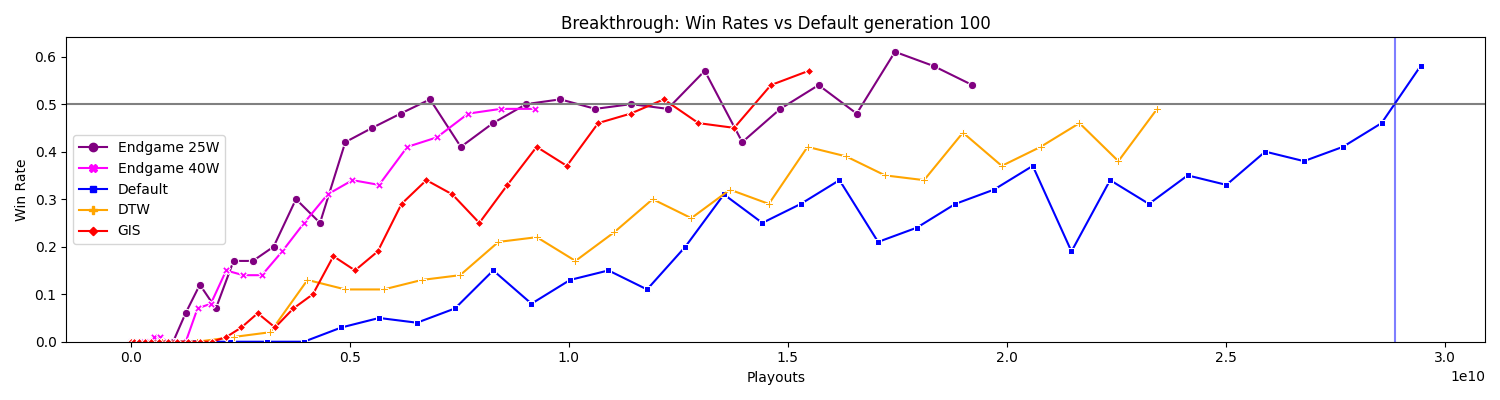
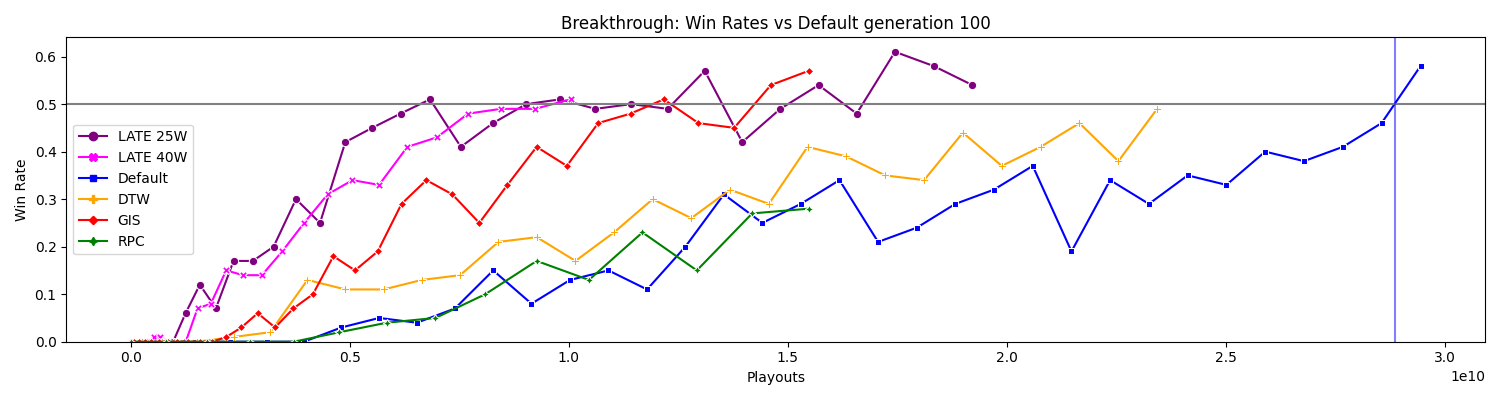
competitions and add LATE to graph together

diff --git a/py_src/graph_competitions_together.py b/py_src/graph_competitions_together.py
@@ -44,23 +44,20 @@ VS = 'Default generation 100'
 
 
 runs_dirnames = {
-    "Endgame 25W": "DEFAULT_5000_gamesvsENDGAME_PLAYOUTS_uniat100_few_games_const_100" ,
-    "Endgame 40W": "DEFAULT_5000_gamesvsENDGAME_low_pow_const_100",
+    "LATE 25W": "DEFAULT_5000_gamesvsENDGAME_PLAYOUTS_uniat100_few_games_const_100" ,
+    "LATE 40W": "DEFAULT_5000_gamesvsENDGAME_low_pow_const_100",
     "Default":"DEFAULT_5000_gamesvsDEFAULT_5000_games_const_100" ,
     "DTW":"DEFAULT_5000_gamesvsDYN_WINDOW_const_1.0", 
     "GIS":"DEFAULT_5000_gamesvsMONOTONE_const_100" ,
     "RPC": 'DEFAULT_5000_gamesvsRANDOM_CAP_more_games_const_100'
-    # "DEFAULT_5000_gamesvsrandomized_cap_const_1.0"
 }
 
 
 
 color_map = {
-    "Endgame 25W": "purple",
-    "Endgame 40W": "magenta",
+    "LATE 25W": "purple",
+    "LATE 40W": "magenta",
     "Default": "blue",
-    # Default bw: cyan
-    # randomized_cap: green
     "DTW": "orange",
     "GIS": "red",
     "RPC": "green"
